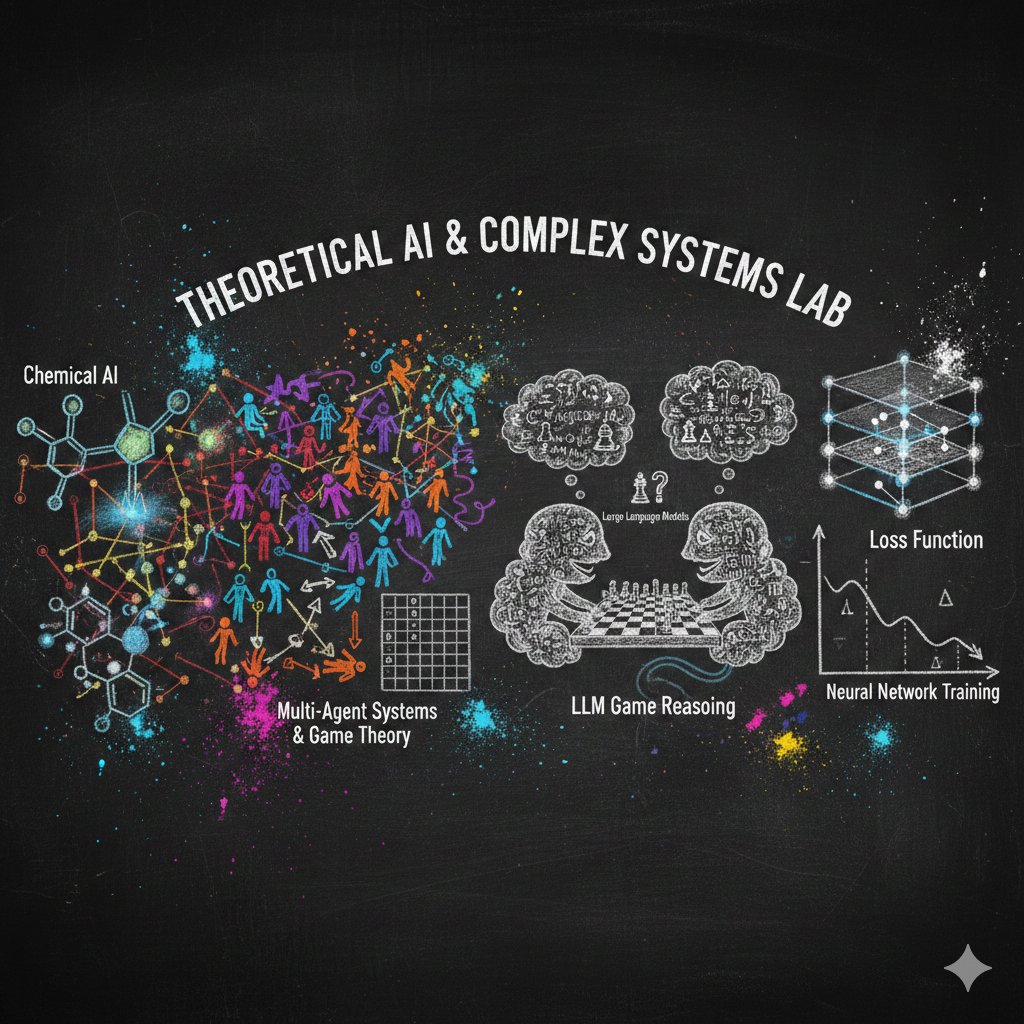
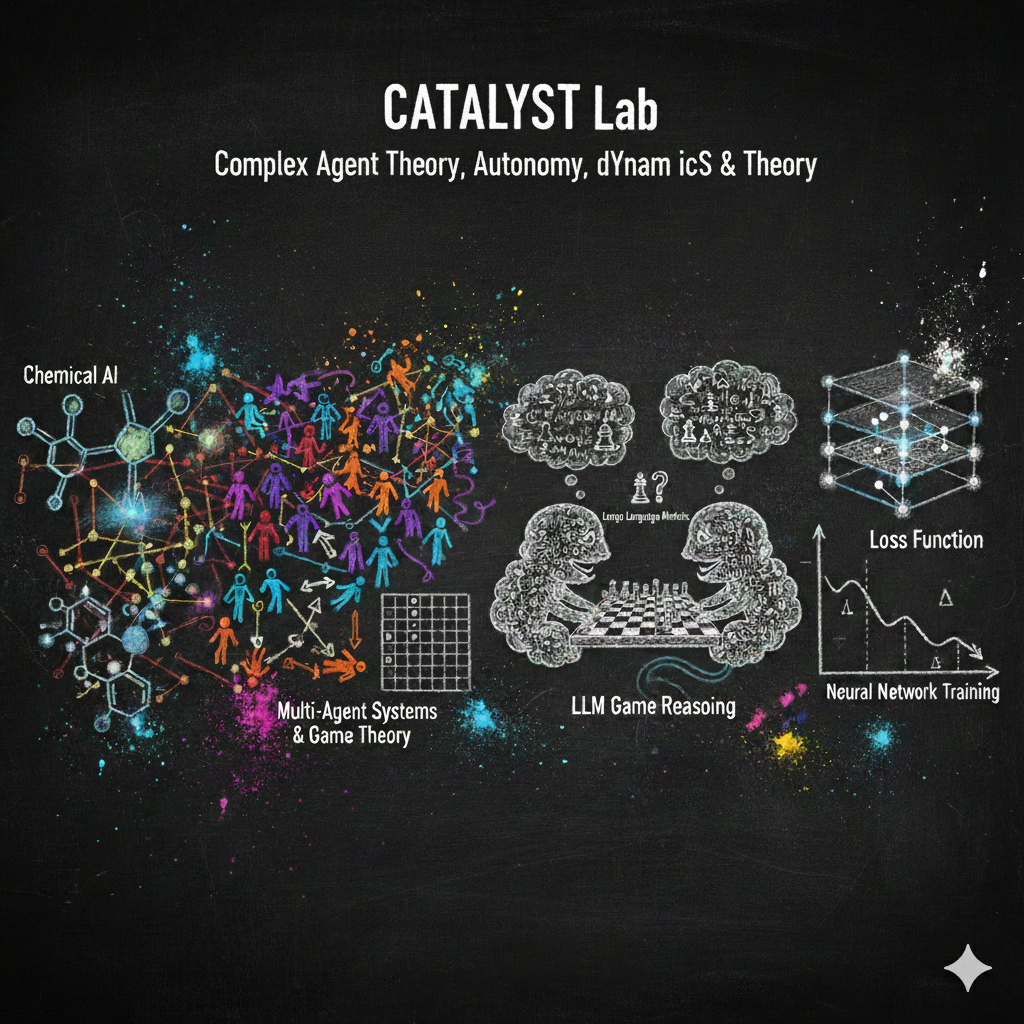
updated pages with new name

diff --git a/about.html b/about.html
@@ -4,7 +4,7 @@
 <head>
     <meta charset="UTF-8">
     <meta name="viewport" content="width=device-width, initial-scale=1.0">
-    <title>About - Tal Kachman</title>
+    <title>CATALYST Lab</title>
     <link rel="stylesheet" href="css/pages.css">
 </head>
 
@@ -13,7 +13,7 @@
     <header>
         <nav>
             <ul>
-                <li class="site-title"><a href="index.html">Tal Kachman</a></li>
+                <li class="site-title"><a href="index.html">CATALYST Lab</a></li>
                 <li><a href="about.html" class="active">About</a></li>
                 <li><a href="research.html">Research</a></li>
                 <li><a href="group.html">Group</a></li>
@@ -27,7 +27,8 @@
     <main class="page-content">
         <h2>About</h2>
         <img src="assets/images/research/puzzle.png" style="width: 35vw; min-width: 180px;" , class="center">
-        <p>The Kachman Group operates at the cutting edge of interdisciplinary science, coalescing ideas and approaches
+        <p>The Kachman CATALYST Lab operates at the cutting edge of interdisciplinary science, coalescing ideas and
+            approaches
             from machine learning, complexity theory, network science, and deep numerical modeling, all to tackle
             cutting edge problems in artificial intelligence and the natural sciences. Check out the research page for
             more
@@ -51,7 +52,7 @@
     </main>
 
     <footer>
-        <p>© 2025 Tal Kachman. All rights reserved.</p>
+        <p>© 2025 CATALYST Lab. All rights reserved.</p>
     </footer>
 </body>
 

diff --git a/code.html b/code.html
@@ -4,7 +4,7 @@
 <head>
     <meta charset="UTF-8">
     <meta name="viewport" content="width=device-width, initial-scale=1.0">
-    <title>Code Examples - Tal Kachman</title>
+    <title>CATALYST Lab</title>
     <link rel="stylesheet" href="css/pages.css">
     <link rel="stylesheet" href="css/syntax.css">
 </head>
@@ -14,7 +14,7 @@
     <header>
         <nav>
             <ul>
-                <li class="site-title"><a href="index.html">Tal Kachman</a></li>
+                <li class="site-title"><a href="index.html">CATALYST Lab</a></li>
                 <li><a href="about.html">About</a></li>
                 <li><a href="research.html">Research</a></li>
                 <li><a href="group.html">Group</a></li>
@@ -34,7 +34,7 @@
     </main>
 
     <footer>
-        <p>© 2025 Tal Kachman. All rights reserved.</p>
+        <p>© 2025 CATALYST Lab. All rights reserved.</p>
     </footer>
 </body>
 

diff --git a/index.html b/index.html
@@ -4,7 +4,7 @@
 <head>
     <meta charset="UTF-8">
     <meta name="viewport" content="width=device-width, initial-scale=1.0">
-    <title>Tal Kachman</title>
+    <title>CATALYST Lab</title>
     <style>
         * {
             margin: 0;
@@ -191,7 +191,8 @@
     <div class="home-container">
         <!-- Left side - Navigation -->
         <div class="nav-section">
-            <h1 class="site-title">Complex Learning Group</h1>
+            <h1 class="site-title">The CATALYST Lab</h1>
+            <p1>Complex Agent Theory, Autonomy, Learning dYnamicS & Theory</p1>
             <p class="site-subtitle">Radboud University & Yale School of Management</p>
 
             <ul class="nav-list">
@@ -244,7 +245,7 @@
 
     <!-- Footer -->
     <footer>
-        <p>© 2025 Tal Kachman. All rights reserved.</p>
+        <p>© 2025 CATALYST Lab. All rights reserved.</p>
     </footer>
 </body>
 

diff --git a/information_for_prospective_students.html b/information_for_prospective_students.html
@@ -4,7 +4,7 @@
 <head>
     <meta charset="UTF-8">
     <meta name="viewport" content="width=device-width, initial-scale=1.0">
-    <title>Information for Prospective Students - Tal Kachman</title>
+    <title>CATALYST Lab</title>
     <link rel="stylesheet" href="css/pages.css">
 </head>
 
@@ -13,7 +13,7 @@
     <header>
         <nav>
             <ul>
-                <li class="site-title"><a href="index.html">Tal Kachman</a></li>
+                <li class="site-title"><a href="index.html">CATALYST Lab</a></li>
                 <li><a href="about.html">About</a></li>
                 <li><a href="research.html">Research</a></li>
                 <li><a href="group.html">Group</a></li>
@@ -91,7 +91,7 @@
     </main>
 
     <footer>
-        <p>© 2025 Tal Kachman. All rights reserved.</p>
+        <p>© 2025 CATALYST Lab. All rights reserved.</p>
     </footer>
 </body>
 

diff --git a/group.html b/group.html
@@ -4,7 +4,7 @@
 <head>
     <meta charset="UTF-8">
     <meta name="viewport" content="width=device-width, initial-scale=1.0">
-    <title>Research Group - Tal Kachman</title>
+    <title>CATALYST Lab</title>
     <link rel="stylesheet" href="css/pages.css">
 </head>
 
@@ -13,7 +13,7 @@
     <header>
         <nav>
             <ul>
-                <li class="site-title"><a href="index.html">Tal Kachman</a></li>
+                <li class="site-title"><a href="index.html">CATALYST Lab</a></li>
                 <li><a href="about.html">About</a></li>
                 <li><a href="research.html">Research</a></li>
                 <li><a href="group.html" class="active">Group</a></li>
@@ -193,7 +193,7 @@
     </main>
 
     <footer>
-        <p>© 2025 Tal Kachman. All rights reserved.</p>
+        <p>© 2025 CATALYST Lab. All rights reserved.</p>
     </footer>
 </body>
 

diff --git a/research.html b/research.html
@@ -4,7 +4,7 @@
 <head>
     <meta charset="UTF-8">
     <meta name="viewport" content="width=device-width, initial-scale=1.0">
-    <title>Research - Tal Kachman</title>
+    <title>CATALYST Lab</title>
     <link rel="stylesheet" href="css/pages.css">
 </head>
 
@@ -13,7 +13,7 @@
     <header>
         <nav>
             <ul>
-                <li class="site-title"><a href="index.html">Tal Kachman</a></li>
+                <li class="site-title"><a href="index.html">CATALYST Lab</a></li>
                 <li><a href="about.html">About</a></li>
                 <li><a href="research.html" class="active">Research</a></li>
                 <li><a href="group.html">Group</a></li>
@@ -194,7 +194,7 @@
     </main>
 
     <footer>
-        <p>© 2025 Tal Kachman. All rights reserved.</p>
+        <p>© 2025 CATALYST Lab. All rights reserved.</p>
     </footer>
 </body>
 

diff --git a/contact.html b/contact.html
@@ -4,7 +4,7 @@
 <head>
     <meta charset="UTF-8">
     <meta name="viewport" content="width=device-width, initial-scale=1.0">
-    <title>Contact - Tal Kachman</title>
+    <title>CATALYST Lab</title>
     <link rel="stylesheet" href="css/pages.css">
 </head>
 
@@ -13,7 +13,7 @@
     <header>
         <nav>
             <ul>
-                <li class="site-title"><a href="index.html">Tal Kachman</a></li>
+                <li class="site-title"><a href="index.html">CATALYST Lab</a></li>
                 <li><a href="about.html">About</a></li>
                 <li><a href="research.html">Research</a></li>
                 <li><a href="group.html">Group</a></li>
@@ -44,7 +44,7 @@
     </main>
 
     <footer>
-        <p>© 2025 Tal Kachman. All rights reserved.</p>
+        <p>© 2025 CATALYST Lab. All rights reserved.</p>
     </footer>
 </body>
 
